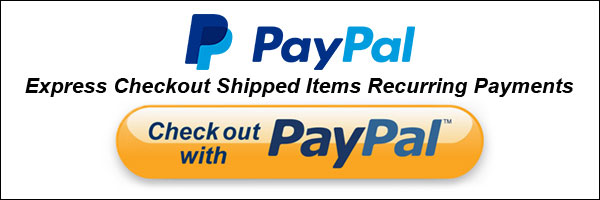
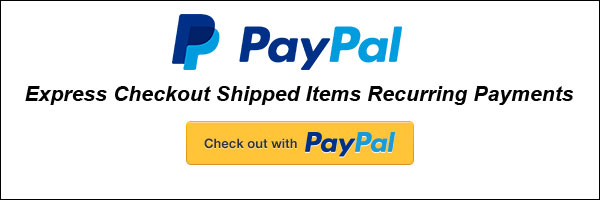
PPCL-164 , adjusted all images with new express checkout button.

diff --git a/demo/index.php b/demo/index.php
@@ -284,7 +284,7 @@
             <div class="row">
                 <div class="col-md-4">
                     <div class="thumbnail"><img alt="Express Checkout Shipped Items + Recurring Payment"
-                                                src="assets/images/express-checkout-shipped-items-recurring-payments.png">
+                                                src="assets/images/express-checkout-shipped-items-recurring-payments.jpg">
                         <?php
                         $DIR = '\express-checkout-shipped-items-recurring-payments';
                         $DIR_exists = (is_dir(__DIR__ . $DIR)) ? true : false;
